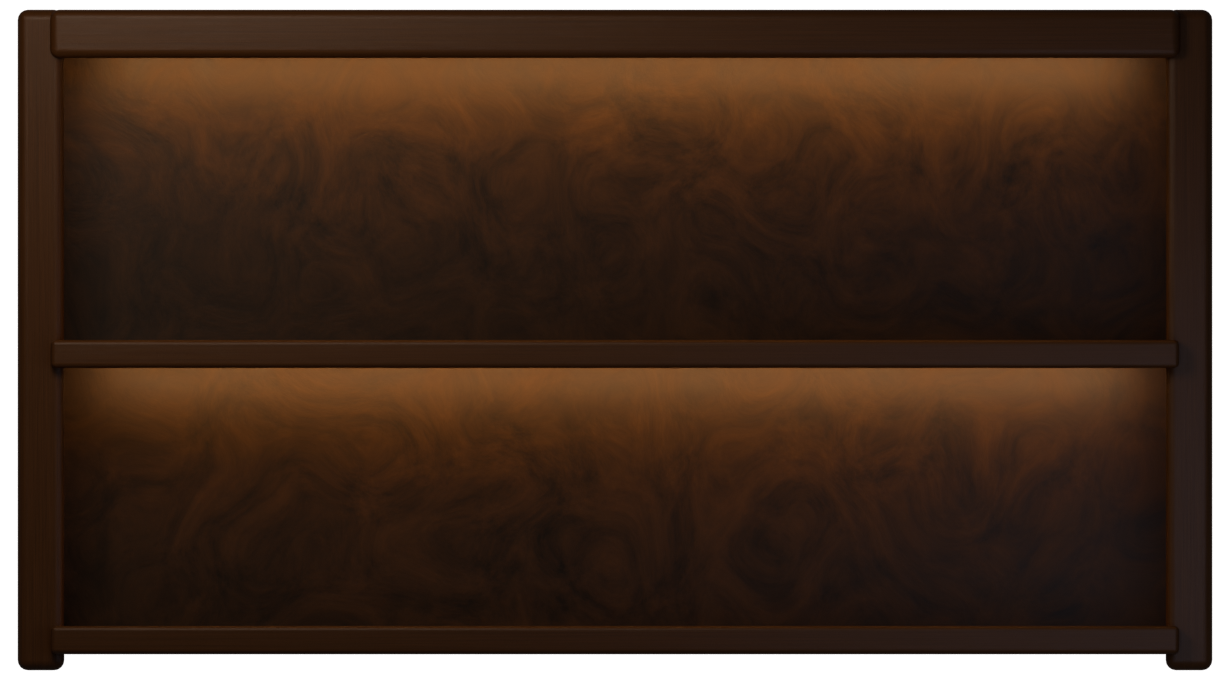
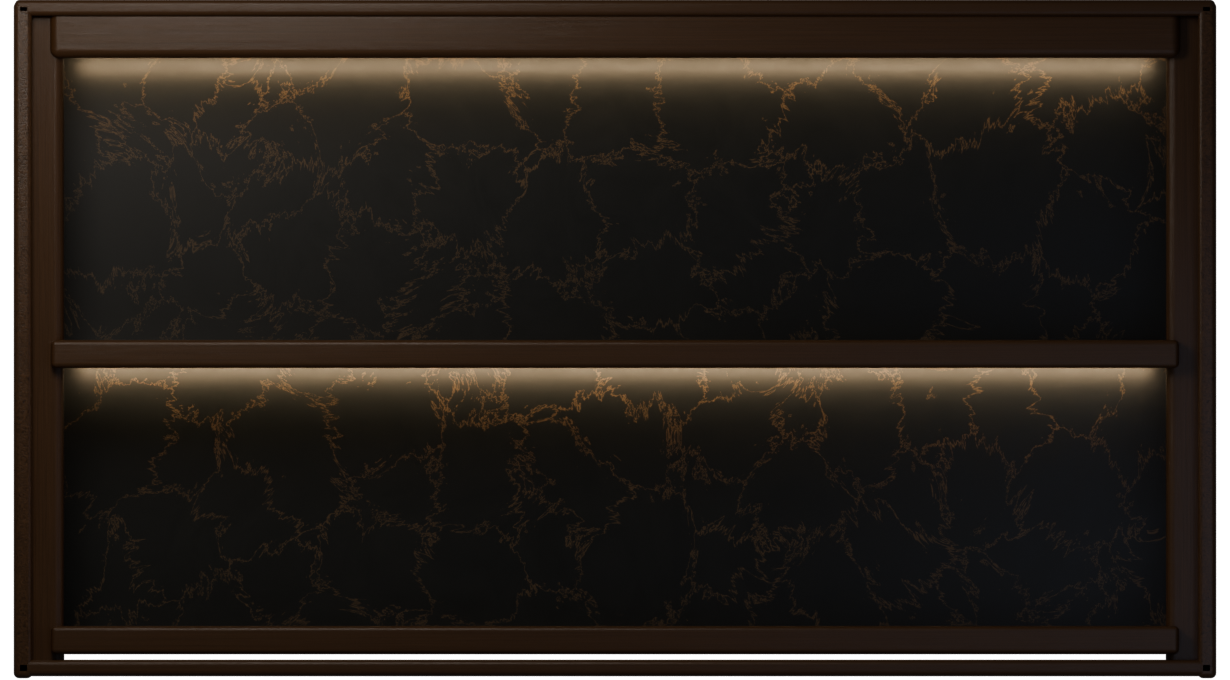
fix(mobile): refine MyShelf cabinet and collection visual fidelity

diff --git a/apps/mobile/app/(app)/(tabs)/cellar.tsx b/apps/mobile/app/(app)/(tabs)/cellar.tsx
@@ -1,4 +1,5 @@
 import { useAuth } from "@clerk/expo";
+import { MaterialCommunityIcons } from "@expo/vector-icons";
 import { useFocusEffect, useRouter } from "expo-router";
 import * as SecureStore from "expo-secure-store";
 import { useCallback, useEffect, useMemo, useRef, useState } from "react";
@@ -400,7 +401,7 @@ export default function CellarScreen() {
         </View>
         {preferences ? <>
           <ShelfCabinet bottles={sourceBottles} shelfStyle={preferences.collectionPreferences.shelfStyle || "amber"} busy={styleSaving || mutating} onStyle={saveShelfStyle} onBottle={setSelected} />
-          <View accessibilityRole="summary" style={styles.statistics}><Text style={styles.statisticsTitle}>Collection Statistics</Text><Text style={styles.summaryDetail}>{summary.ownedWhiskeyCount} owned · {summary.tastedOnlyCount} tasted only{summary.averageRating == null ? "" : ` · ${(summary.averageRating / 10).toFixed(1)} average rating`}</Text></View>
+          <View accessibilityLabel="Collection Statistics" accessibilityRole="summary" style={styles.statistics}><Text style={styles.summaryDetail}>{summary.ownedWhiskeyCount} owned · {summary.tastedOnlyCount} tasted only{summary.averageRating == null ? "" : ` · ${(summary.averageRating / 10).toFixed(1)} average rating`}</Text></View>
         </> : null}
         {loading && !preferences ? <LoadingState label="Opening My Shelf…" /> : null}
         {error ? <ErrorState message={error} onRetry={() => void load(true)} /> : null}
@@ -468,6 +469,8 @@ export default function CellarScreen() {
 }
 
 function WhiskeyTile({ bottle, onPress, width }: { bottle: MemberCollectionBottle; onPress: () => void; width?: number }) {
+  const { width: viewportWidth, fontScale } = useWindowDimensions();
+  const expandedText = fontScale > 1.15 || viewportWidth < 350;
   const kind = collectionDisplayKind(bottle);
   const kindLabel = kind === "owned" ? "Owned" : "Tasted only";
   const inventory = kind === "owned" ? collectionInventoryLabel(bottle) || "Inventory on hand" : "No bottles on hand";
@@ -479,9 +482,9 @@ function WhiskeyTile({ bottle, onPress, width }: { bottle: MemberCollectionBottl
     style={({ pressed }) => [styles.tile, width !== undefined && { width }, pressed && styles.pressed]}
   >
     <View style={styles.tileArt}>{kind === "owned" ? <CellarBottleArtwork bottle={bottle} /> : <CellarGlencairnSilhouette />}</View>
-    <Text numberOfLines={3} style={styles.tileName}>{bottle.bottleName}</Text>
+    <View style={[styles.tileTitleZone, { minHeight: 26 * fontScale }]}><Text numberOfLines={expandedText ? undefined : 2} style={styles.tileName}>{bottle.bottleName}</Text></View>
     <Text style={styles.tileRating}>★ {rating}</Text>
-    <Text numberOfLines={2} style={styles.inventory}>{kind === "owned" ? inventory : "Tasted only"}</Text>
+    <Text numberOfLines={expandedText ? undefined : 2} style={styles.inventory}>{kind === "owned" ? inventory : "Tasted only"}</Text>
   </Pressable>;
 }
 
@@ -506,12 +509,14 @@ function WhiskeyListRow({ bottle, onPress }: { bottle: MemberCollectionBottle; o
 }
 
 function ViewModeButton({ active, label, onPress }: { active: boolean; label: string; onPress: () => void }) {
-  return <Pressable accessibilityLabel={`${label} view`} accessibilityRole="radio" accessibilityState={{ checked: active }} onPress={onPress} style={[styles.viewModeButton, active && styles.viewModeButtonActive]}><Text style={[styles.viewModeText, active && styles.viewModeTextActive]}>{label === "Grid" ? "▦" : "☷"}</Text></Pressable>;
+  return <Pressable accessibilityLabel={`${label} view`} accessibilityRole="radio" accessibilityState={{ checked: active }} onPress={onPress} style={[styles.viewModeButton, active && styles.viewModeButtonActive]}><MaterialCommunityIcons accessible={false} name={label === "Grid" ? "view-grid" : "format-list-bulleted"} size={19} color={active ? colors.accent : colors.muted} /></Pressable>;
 }
 
 function CollectionFilterChip({ active, label, onPress }: { active: boolean; label: string; onPress: () => void }) {
   const parts = /^(.*) (\(\d+\))$/.exec(label);
-  return <Pressable accessibilityLabel={label} accessibilityRole="radio" accessibilityState={{ checked: active }} onPress={onPress} style={[styles.filterChip, active && styles.filterChipActive]}><Text style={[styles.filterChipText, active && styles.filterChipTextActive]}>{parts?.[1] || label}</Text>{parts ? <Text style={[styles.tabCount, active && styles.filterChipTextActive]}>{parts[2]}</Text> : null}</Pressable>;
+  const { width, fontScale } = useWindowDimensions();
+  const inline = width >= 350 && fontScale <= 1.15;
+  return <Pressable accessibilityLabel={label} accessibilityRole="radio" accessibilityState={{ checked: active }} onPress={onPress} style={[styles.filterChip, inline && styles.filterChipInline, active && styles.filterChipActive]}><Text style={[styles.filterChipText, active && styles.filterChipTextActive]}>{parts?.[1] || label}</Text>{parts ? <Text style={[styles.tabCount, active && styles.filterChipTextActive]}>{parts[2]}</Text> : null}</Pressable>;
 }
 
 function RefineSheet({ filters, mode, onChange, onClose, onSort, sort }: { filters: CollectionFilters; mode: "filters" | "sort" | null; onChange: (next: CollectionFilters) => void; onClose: () => void; onSort: (next: CollectionSort) => void; sort: CollectionSort }) {
@@ -697,17 +702,17 @@ function Stepper({ label, onChange, value }: { label: string; onChange: (value: 
 
 const styles = StyleSheet.create({
   pageTitle: { color: colors.text, fontSize: 32, fontWeight: "700", fontFamily: "Fraunces_700Bold" },
-  statistics: { gap: 2, paddingVertical: 7, paddingHorizontal: 12, borderWidth: StyleSheet.hairlineWidth, borderColor: colors.border, borderRadius: 7, backgroundColor: colors.surface },
+  statistics: { gap: 2, paddingVertical: 5, paddingHorizontal: 10, borderWidth: StyleSheet.hairlineWidth, borderColor: "#29251f", borderRadius: 6, backgroundColor: "#12110e" },
   statisticsTitle: { color: colors.text, fontSize: 12, fontWeight: "500" },
-  collectionTabs: { flex: 1, flexDirection: "row", gap: 0, borderWidth: 1, borderColor: colors.border, borderRadius: 7, overflow: "hidden" },
-  tileArt: { height: 88, width: 72, alignItems: "center", justifyContent: "center", transform: [{ scale: 0.76 }] },
-  header: { gap: 7, marginBottom: 0 },
-  topRow: { flexDirection: "row", alignItems: "center", justifyContent: "space-between", gap: 14, paddingTop: 2 },
+  collectionTabs: { flex: 1, flexDirection: "row", gap: 0, borderWidth: StyleSheet.hairlineWidth, borderColor: "#302b24", borderRadius: 6, overflow: "hidden" },
+  tileArt: { height: 76, width: 72, alignItems: "center", justifyContent: "center", transform: [{ scale: 0.65 }] },
+  header: { gap: 3, marginBottom: 0 },
+  topRow: { flexDirection: "row", alignItems: "center", justifyContent: "space-between", gap: 14, paddingTop: 0 },
   topCopy: { flex: 1, gap: 4 },
   eyebrow: { color: colors.muted, fontSize: 10, fontWeight: "800", letterSpacing: 1.2 },
   summaryLine: { color: colors.text, fontSize: 18, fontWeight: "800" },
-  summaryDetail: { color: colors.muted, fontSize: 10 },
-  addButton: { minHeight: 44, minWidth: 44, flexShrink: 0, justifyContent: "center", borderRadius: 11, backgroundColor: colors.accent, paddingHorizontal: 14 },
+  summaryDetail: { color: colors.muted, fontSize: 10, lineHeight: 14 },
+  addButton: { minHeight: 44, minWidth: 78, flexShrink: 0, alignItems: "center", justifyContent: "center", borderRadius: 8, backgroundColor: colors.accent, paddingHorizontal: 18 },
   addButtonPressed: { backgroundColor: colors.accentPressed },
   addButtonDisabled: { backgroundColor: colors.surfaceRaised, borderColor: colors.border, borderWidth: 1 },
   addButtonText: { color: colors.background, fontSize: 13, fontWeight: "800" },
@@ -734,7 +739,7 @@ const styles = StyleSheet.create({
   showMoreText: { color: colors.accent, fontSize: 13, fontWeight: "900" },
   huntNext: { gap: 8, borderColor: colors.border, borderWidth: StyleSheet.hairlineWidth, borderRadius: 14, backgroundColor: colors.surface, padding: 12 }, huntNextHeader: { flexDirection: "row", alignItems: "center", justifyContent: "space-between", gap: 10 }, huntNextTitle: { color: colors.text, fontSize: 17, fontWeight: "900" }, huntNextCount: { color: colors.muted, fontSize: 10, textTransform: "uppercase", letterSpacing: 0.7 }, huntNextRow: { gap: 9, borderTopColor: colors.border, borderTopWidth: StyleSheet.hairlineWidth, paddingTop: 10 }, huntNextCopy: { gap: 3 }, huntNextName: { color: colors.text, fontSize: 13, fontWeight: "800" }, huntNextReason: { color: colors.muted, fontSize: 11, lineHeight: 16 }, huntNextButton: { minHeight: 44, alignSelf: "flex-start", justifyContent: "center", borderColor: colors.accent, borderWidth: 1, borderRadius: 999, paddingHorizontal: 12 }, huntNextButtonText: { color: colors.accent, fontSize: 11, fontWeight: "900" },
   controlRow: { flexDirection: "row", gap: 8 },
-  search: { flex: 1, minWidth: 0, minHeight: 44, borderColor: "#594839", borderWidth: 1, borderRadius: 11, backgroundColor: colors.surface, color: colors.text, paddingHorizontal: 13, fontSize: 14 },
+  search: { flex: 1, minWidth: 0, minHeight: 44, borderColor: "#343029", borderWidth: StyleSheet.hairlineWidth, borderRadius: 7, backgroundColor: "#151410", color: colors.text, paddingHorizontal: 10, fontSize: 12 },
   sortButton: { minHeight: 44, maxWidth: "44%", justifyContent: "center", borderColor: "#594839", borderWidth: 1, borderRadius: 11, backgroundColor: colors.surface, paddingHorizontal: 11 },
   sortText: { color: colors.text, fontSize: 11, fontWeight: "800" },
   filterBar: { minHeight: 44, flexDirection: "row", alignItems: "center", gap: 8 },
@@ -742,28 +747,30 @@ const styles = StyleSheet.create({
   quickFilters: { alignItems: "center", gap: 7, paddingRight: 2 },
   filterChip: { flex: 1, minWidth: 0, minHeight: 44, justifyContent: "center", alignItems: "center", backgroundColor: colors.surface, paddingHorizontal: 2, paddingVertical: 4 },
   filterChipActive: { borderColor: colors.accent, backgroundColor: colors.accent, borderBottomWidth: 2 },
-  filterChipText: { color: colors.text, fontSize: 11, fontWeight: "500", textAlign: "center", alignSelf: "stretch" },
+  filterChipInline: { flexDirection: "row", gap: 3 },
+  filterChipText: { color: colors.text, fontSize: 11, fontWeight: "500", textAlign: "center", flexShrink: 1 },
   tabCount: { color: colors.muted, fontSize: 10, textAlign: "center" },
   filterChipTextActive: { color: colors.background, fontWeight: "700" },
-  moreFiltersButton: { minHeight: 44, justifyContent: "center", borderColor: "#594839", borderWidth: 1, borderRadius: 11, backgroundColor: colors.surface, paddingHorizontal: 10 },
+  moreFiltersButton: { minHeight: 44, justifyContent: "center", borderColor: "#343029", borderWidth: StyleSheet.hairlineWidth, borderRadius: 7, backgroundColor: "#151410", paddingHorizontal: 8 },
   moreFiltersButtonActive: { borderColor: colors.accent, backgroundColor: "rgba(214,154,74,0.18)" },
   moreFiltersText: { color: colors.text, fontSize: 10, fontWeight: "800" },
   moreFiltersTextActive: { color: colors.accent },
   browseToolbar: { minHeight: 38, flexDirection: "row", alignItems: "center", justifyContent: "space-between", gap: 12 },
   showing: { color: colors.muted, fontSize: 11 },
-  viewToggle: { flexDirection: "row", gap: 2, borderColor: "#594839", borderWidth: 1, borderRadius: 10, backgroundColor: colors.surface, padding: 2 },
+  viewToggle: { flexDirection: "row", gap: 0, borderColor: "#343029", borderWidth: StyleSheet.hairlineWidth, borderRadius: 7, backgroundColor: "#151410", padding: 0 },
   viewModeButton: { minWidth: 44, minHeight: 44, alignItems: "center", justifyContent: "center", borderRadius: 6, paddingHorizontal: 2 },
   viewModeButtonActive: { backgroundColor: "rgba(214,154,74,0.18)", borderBottomWidth: 2, borderBottomColor: colors.accent },
   viewModeText: { color: colors.text, fontSize: 19, fontWeight: "500" },
   viewModeTextActive: { color: colors.accent },
-  cellarContent: { paddingHorizontal: 16, paddingTop: 4, paddingBottom: 20 },
-  gridContent: { gap: 8 },
+  cellarContent: { paddingHorizontal: 10, paddingTop: 0, paddingBottom: 20 },
+  gridContent: { gap: 6 },
   gridRow: { gap: 8 },
   gap: { height: 8 },
-  tile: { flexGrow: 0, flexShrink: 0, minWidth: 0, alignItems: "center", gap: 3, paddingHorizontal: 4, paddingVertical: 7, borderColor: colors.border, borderWidth: StyleSheet.hairlineWidth, borderRadius: 6, backgroundColor: colors.surface },
-  tileName: { alignSelf: "stretch", color: colors.text, fontSize: 11, lineHeight: 14, fontWeight: "500", textAlign: "center" },
-  tileRating: { color: colors.accent, fontSize: 12, fontWeight: "500" },
-  inventory: { alignSelf: "stretch", textAlign: "center", color: colors.muted, fontSize: 10, textTransform: "capitalize" },
+  tile: { flexGrow: 0, flexShrink: 0, minWidth: 0, alignItems: "center", gap: 2, paddingHorizontal: 4, paddingVertical: 5, borderColor: "#25221c", borderWidth: StyleSheet.hairlineWidth, borderRadius: 6, backgroundColor: "#13120f" },
+  tileTitleZone: { alignSelf: "stretch", minHeight: 28, justifyContent: "center" },
+  tileName: { alignSelf: "stretch", color: colors.text, fontSize: 11, lineHeight: 13, fontFamily: Platform.select({ ios: "Georgia", android: "serif", default: "Georgia" }), fontWeight: "600", textAlign: "center" },
+  tileRating: { color: colors.accent, fontSize: 12, lineHeight: 15, fontWeight: "500" },
+  inventory: { alignSelf: "stretch", textAlign: "center", color: colors.muted, fontSize: 10, lineHeight: 12, textTransform: "capitalize" },
   listRow: { minHeight: 92, flexDirection: "row", alignItems: "center", gap: 12, borderColor: colors.border, borderWidth: StyleSheet.hairlineWidth, borderRadius: 14, backgroundColor: colors.surface, paddingHorizontal: 12, paddingVertical: 10 },
   listCopy: { flex: 1, alignItems: "flex-start", gap: 4 },
   listName: { color: colors.text, fontSize: 15, lineHeight: 19, fontWeight: "800" },

diff --git a/apps/mobile/src/components/CellarBottleArtwork.tsx b/apps/mobile/src/components/CellarBottleArtwork.tsx
@@ -1,6 +1,7 @@
 import { useState } from "react";
 import { Image, StyleSheet, View } from "react-native";
 import { useBottlePhoto } from "../bottle-photos/native";
+import { groundedPhotoFrame, photoPresentationScale } from "../cellar/photo-presentation";
 import { CellarBottleSilhouette } from "./CellarBottleSilhouette";
 import { resolveCellarBottleArtwork, type CellarBottleIdentity } from "./cellar-bottle-artwork";
 
@@ -17,19 +18,20 @@ export function CellarBottleArtwork({ bottle, size = "grid" }: {
   bottle: CellarBottleIdentity;
   size?: "grid" | "list";
 }) {
-  const { uri, blocked } = useBottlePhoto(bottle);
+  const { uri, sha256, blocked } = useBottlePhoto(bottle);
+  const frame = (scale: number) => groundedPhotoFrame(size === "grid" ? 80 : 44, size === "grid" ? 116 : 62, scale);
   const [failedUri, setFailedUri] = useState<string>();
   if (blocked || (!bottle.bottleId && !bottle.bottleName)) return <CellarBottleSilhouette />;
   if (uri && uri !== failedUri) return (
     <View accessibilityElementsHidden importantForAccessibility="no-hide-descendants" style={size === "grid" ? styles.gridFrame : styles.listFrame}>
-      <Image key={uri} resizeMode="contain" source={{ uri, cache: "force-cache" }} onError={() => setFailedUri(uri)} style={size === "grid" ? styles.gridArtwork : styles.listArtwork} />
+      <Image key={uri} resizeMode="contain" source={{ uri, cache: "force-cache" }} onError={() => setFailedUri(uri)} style={frame(photoPresentationScale(sha256))} />
     </View>
   );
   const artworkId = resolveCellarBottleArtwork(bottle);
   if (!artworkId) return <CellarBottleSilhouette />;
   return (
     <View accessibilityElementsHidden importantForAccessibility="no-hide-descendants" style={size === "grid" ? styles.gridFrame : styles.listFrame}>
-      <Image resizeMode="contain" source={bottleArtwork[artworkId]} style={size === "grid" ? styles.gridArtwork : styles.listArtwork} />
[1 lines of base64/hex data omitted]
     </View>
   );
 }

diff --git a/apps/mobile/src/cellar/photo-presentation.test.ts b/apps/mobile/src/cellar/photo-presentation.test.ts
@@ -1,0 +1,19 @@
+import assert from 'node:assert/strict';
+import { test } from 'node:test';
+import { photoPresentationScale, groundedPhotoFrame } from './photo-presentation';
+test('only three visually reviewed immutable photos receive proportional presentation correction', () => {
[3 lines of base64/hex data omitted]
+  for (const key of [undefined, '1792', '1792-small-batch', 'woodford', 'f0ea7ac8']) assert.equal(photoPresentationScale(key), 1);
+});
+test('presentation preserves aspect and approved alpha baseline for grid and list frames', () => {
+  for (const [w,h] of [[80,116],[44,62]]) for (const s of [.84,.9,.94,1]) {
+    const f=groundedPhotoFrame(w,h,s);
+    assert.equal(f.width, w*s);
+    assert.equal(f.height, h*s);
+    assert.ok(Math.abs(f.width/f.height-w/h)<1e-12);
+    assert.ok(Math.abs(h-f.bottom-f.height*(16/600)-h*(584/600))<1e-8);
+    assert.ok(f.width>0 && f.height>0 && f.bottom>=0);
+  }
+});

diff --git a/apps/mobile/src/interactions/cellar-route-contract.test.ts b/apps/mobile/src/interactions/cellar-route-contract.test.ts
@@ -78,7 +78,7 @@ test("My Shelf has explicit component-state grid and dense list views with bottl
   assert.match(cellar, /<ScrollView[^>]*contentContainerStyle=\{styles\.refineSheet\}/, "Filter and sort sheets remain reachable with large Dynamic Type");
   assert.match(cellar, /refineSheet:\s*\{\s*flexGrow:\s*1/, "Refine content can grow beyond the sheet viewport");
   assert.match(cellar, /allowSwipeDismissal=\{!dirty && !busy\}/, "dirty or busy editors cannot be dismissed underneath visible React state");
-  assert.match(cellar, /numberOfLines=\{3\}/, "long whiskey names get a third line before truncation");
+  assert.match(cellar, /numberOfLines=\{expandedText \? undefined : 2\}/, "compact normal titles expand without line clipping on narrow or large-text devices");
   assert.match(cellar, /cellarContent:\s*\{[^}]*paddingBottom:\s*20/, "non-overlay native tab layout needs only compact trailing content padding; browser shell clearance is exercised");
   assert.doesNotMatch(cellar, /tile:\s*\{[^}]*minHeight:/, "cards grow with names and large text instead of a fixed dead gap");
   assert.match(cellar, /preferences\?\.collectionAccess/, "native My Shelf renders server-authoritative capacity state");

diff --git a/apps/mobile/src/cellar/shelf-fidelity.test.ts b/apps/mobile/src/cellar/shelf-fidelity.test.ts
@@ -1,0 +1,19 @@
+import assert from 'node:assert/strict';
+import { readFileSync } from 'node:fs';
+import { test } from 'node:test';
+import { shelfGridLayout } from './shelf-cabinet';
+test('grid shares ten-point safe page gutters at each phone width', () => {
+  for (const width of [320, 390, 430]) assert.equal(shelfGridLayout(width, 'grid').tileWidth * 3 + 16 + 20, width);
+});
+const page = readFileSync(new URL('../../app/(app)/(tabs)/cellar.tsx', import.meta.url), 'utf8');
+test('fidelity controls use real four-square/list icons, inline counts and responsive fallback', () => {
+  assert.match(page, /name=\{label === "Grid" \? "view-grid" : "format-list-bulleted"\}/);
+  assert.match(page, /styles\.filterChipInline/);
+  assert.match(page, /fontScale/);
+  assert.doesNotMatch(page, /"▦"|"☷"/);
+});
+test('fidelity cards use platform serif and expandable consistent title zones', () => {
+  assert.match(page, /fontFamily: Platform\.select\(/);
+  assert.match(page, /styles\.tileTitleZone/);
+  assert.match(page, /paddingHorizontal: 10, paddingTop: 0/);
+});

diff --git a/apps/mobile/src/cellar/photo-presentation.ts b/apps/mobile/src/cellar/photo-presentation.ts
@@ -1,0 +1,15 @@
+// Presentation only, never real-world bottle dimensions or identity resolution.
+export function photoPresentationScale(sha256?: string): number {
+  // Reviewed source-pixel proportions: 1792 Small Batch, Woodford Double Oaked,
+  // Woodford Reserve. A replacement photo never inherits another asset's fit.
+  switch (sha256) {
[3 lines of base64/hex data omitted]
+    default: return 1;
+  }
+}
+export function groundedPhotoFrame(width: number, height: number, scale: number) {
+  // Approved 400x600 packshots share alpha baseline 584; keep that point fixed.
+  return { position: 'absolute' as const, width: width*scale, height: height*scale, left: width*(1-scale)/2, bottom: height*(16/600)*(1-scale) };
+}

diff --git a/apps/mobile/src/cellar/shelf-cabinet.test.ts b/apps/mobile/src/cellar/shelf-cabinet.test.ts
@@ -19,6 +19,6 @@ test('every count zero through twenty, balanced max two rows max ten and common 
 });
 test('three columns at phone widths with usable list and known styles',()=>{
  assert.equal(typeof shelf.shelfGridLayout,'function','three column feature must exist');
- for(const w of [320,390,430]){const g=shelf.shelfGridLayout(w,'grid');assert.equal(g.columns,3);assert.ok(g.tileWidth*3+16+32<=w+0.01);assert.equal(shelf.shelfGridLayout(w,'list').columns,1);}
+ for(const w of [320,390,430]){const g=shelf.shelfGridLayout(w,'grid');assert.equal(g.columns,3);assert.ok(g.tileWidth*3+16+20<=w+0.01);assert.equal(shelf.shelfGridLayout(w,'list').columns,1);}
  assert.deepEqual(shelf.SHELF_STYLES.map(s=>s.label),['Amber Wood','Dark Walnut','Black Modern']);
 });

diff --git a/apps/mobile/src/bottle-photos/native.ts b/apps/mobile/src/bottle-photos/native.ts
@@ -26,5 +26,5 @@ export function useBottlePhoto(identity: PhotoIdentity) {
     return () => { mounted = false; };
   }, []);
   const photo = resolveBottlePhoto(registry, identity, catalog);
-  return { uri: photo && photoUrl(photo), blocked: photoIdentityConflicts(registry, identity, catalog) };
+  return { uri: photo && photoUrl(photo), sha256: photo?.sha256, blocked: photoIdentityConflicts(registry, identity, catalog) };
 }

diff --git a/apps/mobile/src/cellar/shelf-cabinet.ts b/apps/mobile/src/cellar/shelf-cabinet.ts
@@ -27,5 +27,5 @@ export function cabinetRows<T>(items: readonly T[]): T[][] {
   return [bounded.slice(0, half), bounded.slice(half)];
 }
 export function shelfGridLayout(width: number, mode: 'grid' | 'list') {
-  return { columns: mode === 'grid' ? 3 : 1, tileWidth: (width - 32 - 16) / 3 };
+  return { columns: mode === 'grid' ? 3 : 1, tileWidth: (width - 20 - 16) / 3 };
 }

diff --git a/apps/mobile/src/cellar/shelf-page-contract.test.ts b/apps/mobile/src/cellar/shelf-page-contract.test.ts
@@ -1,5 +1,7 @@
 import assert from 'node:assert/strict';
 import './shelf-asset-layout.test';
+import './shelf-fidelity.test';
+import './photo-presentation.test';
 import test from 'node:test';
 import { readFileSync } from 'node:fs';
 const page=readFileSync(new URL('../../app/(app)/(tabs)/cellar.tsx',import.meta.url),'utf8');
